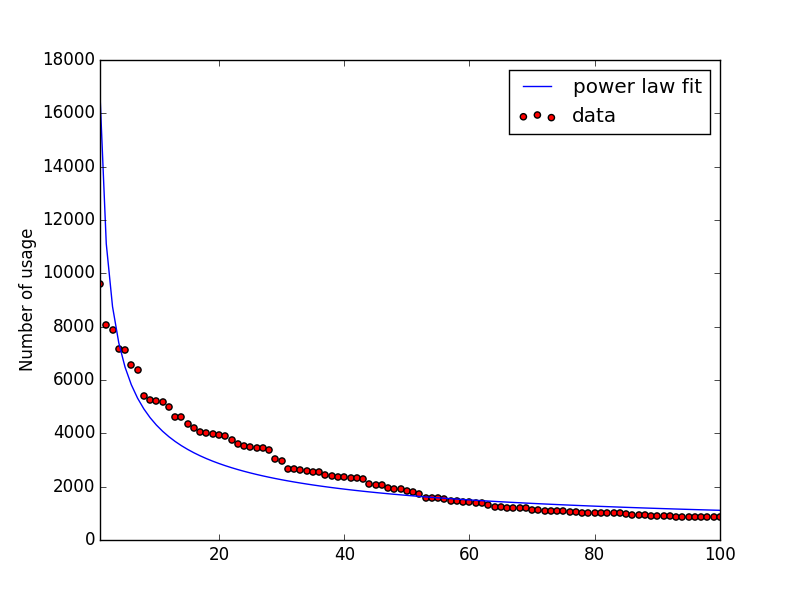
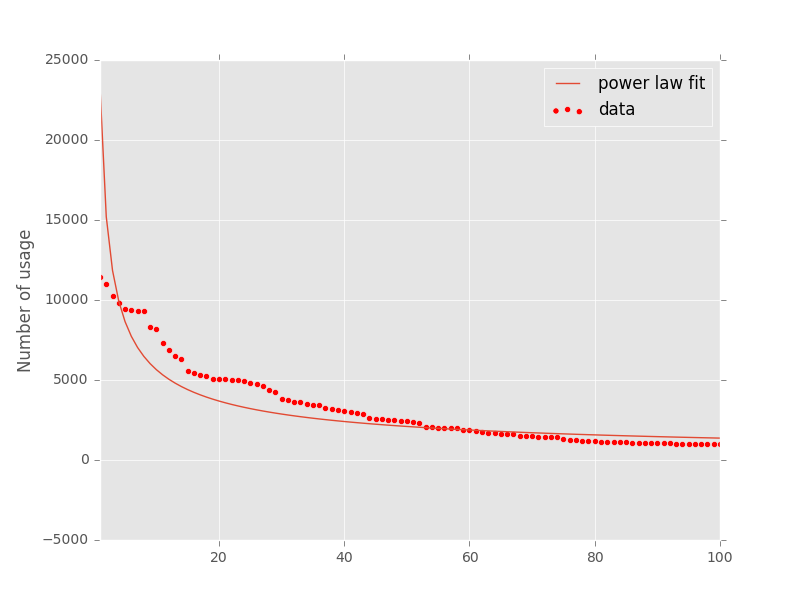
Dedup lots of lines Fix trailing whitespaces after comment removal

diff --git a/eigenvimrc.py b/eigenvimrc.py
@@ -1,8 +1,10 @@
+# -*- coding: utf-8 -*-
 import os
 import json
 import requests
 import collections
 import time
+import unicodedata
 
 import util
 
@@ -11,7 +13,6 @@ step2 = 0  # 2 for ghtorrent.csv, 1 for github.json
 
 # doesn't require internet connection
 step3 = step4 = step5 = 1
-step5 = 0
 
 api_url = "https://api.github.com/search/repositories"
 content_url = "https://raw.githubusercontent.com/"
@@ -59,6 +60,7 @@ if step2:
 if step3:
     vimrcs = []
     total_vimrc = 0
+    outstr = []
     excluded_keywords = ['endfunction', 'endfunc', 'call', 'if ', 'else',
                          'endif', 'return', 'augroup', 'Bundle', 'execute',
                          '\\ }', '\\', 'endfun', 'endf', 'try', 'endtry',
@@ -79,14 +81,11 @@ if step3:
                 sanitized_line = sanitized_line.replace(" = ", "=")
                 # format short-hand keyword
                 sanitized_line = util.keyword_reformat(sanitized_line)
-                if len(sanitized_line)>0 and sanitized_line[-1] == ' ':
-                    print "ugh"
-                    exit()
                 # strip comment
                 # detection is done by checking if the number of quotes
                 # are odd
                 if line.count('"') % 2 != 0:
-                    sanitized_line = sanitized_line[:sanitized_line.rfind('"')]
+                    sanitized_line = sanitized_line[:sanitized_line.rfind('"')].strip()
                 # only append when line is not empty
                 if len(sanitized_line) > 0:
                     sanitized_txt.append(sanitized_line)
@@ -95,10 +94,14 @@ if step3:
     # flatten the nested list
     vimrcs = [item for sublist in vimrcs for item in sublist]
 
-    print "Most common vim config out of " + str(total_vimrc) + " vimrc's\n"
+    outstr.append("Most common vim config out of " + str(total_vimrc) + " vimrc's\n")
     eigenvimrc = collections.Counter(vimrcs).most_common(100)
     for n, i in enumerate(eigenvimrc):
-        print "%d. ```%s``` %.2f%%" % (n, i[0], i[1]*100./total_vimrc)
+        outstr.append("%d. ```%s``` %.2f%%" % (n, i[0], i[1]*100./total_vimrc))
+    outfile = open("README.md", "w")
+    head = open("README.head.md", "r").read()
+    tail = open("README.tail.md", "r").read()
+    outfile.write(head + "\n".join(outstr) + tail)
 
 # step 4: generate eigenvimrc.vim
 if step4:
@@ -110,7 +113,7 @@ if step4:
         os.makedirs("plugin")
     with open('plugin/eigenvimrc.vim', 'wb') as f:
         for i in eigenvimrc:
-            if i[1]*100./total_vimrc >= 30:  # 30% most used
+            if i[1]*100./total_vimrc >= 40:  # 40% most used
                 f.write(i[0]+'\n')
 
 # step 5: generate plot for analysis
@@ -118,6 +121,8 @@ if step5:
     if not step3:
         print "this step depends on step #3, please enable step3"
         exit()
+    import matplotlib
+    matplotlib.use('Agg')
     import matplotlib.pyplot as plt
     plt.style.use('ggplot')
     import pylab

diff --git a/README.md b/README.md
@@ -25,111 +25,111 @@ def vote(default):
 3. ```git clone git://github.com/rht/eigenvimrc.git```
 
 #Result
-```syntax on``` > ```set nocompatible```
+```set nocompatible``` > ```syntax on```
+
 
 Most common vim config out of 13759 vimrc's
 
-0. ```syntax on``` 69.79%
-1. ```set number``` 58.58%
-2. ```set nocompatible``` 57.35%
-3. ```filetype plugin indent on``` 52.06%
-4. ```set expandtab``` 51.86%
-5. ```set laststatus=2``` 47.60%
-6. ```set hlsearch``` 46.29%
-7. ```set incsearch``` 39.17%
-8. ```set ignorecase``` 38.12%
-9. ```let mapleader=","``` 38.01%
-10. ```set background=dark``` 37.71%
-11. ```set backspace=indent,eol,start``` 36.34%
-12. ```set ruler``` 33.57%
-13. ```set autoindent``` 33.42%
-14. ```set tabstop=2``` 31.54%
-15. ```set wildmenu``` 30.63%
-16. ```set encoding=utf-8``` 29.40%
-17. ```set t_Co=256``` 29.22%
-18. ```set smartcase``` 28.96%
-19. ```set shiftwidth=4``` 28.55%
-20. ```set tabstop=4``` 28.22%
-21. ```set showcmd``` 27.28%
-22. ```set shiftwidth=2``` 26.22%
-23. ```set nobackup``` 25.63%
-24. ```set cursorline``` 25.47%
-25. ```filetype off``` 25.07%
-26. ```autocmd!``` 25.02%
-27. ```set mouse=a``` 24.40%
-28. ```set list``` 22.02%
-29. ```set showmatch``` 21.45%
-30. ```syntax enable``` 19.35%
-31. ```set noswapfile``` 19.33%
-32. ```filetype plugin on``` 19.07%
-33. ```set hidden``` 18.85%
-34. ```set smartindent``` 18.59%
-35. ```autocmd BufReadPost *``` 18.45%
-36. ```set smarttab``` 17.64%
-37. ```colorscheme solarized``` 17.53%
-38. ```filetype on``` 17.31%
-39. ```set softtabstop=4``` 17.09%
-40. ```set showmode``` 16.97%
-41. ```set title``` 16.77%
-42. ```set noerrorbells``` 16.75%
-43. ```set relativenumber``` 15.19%
-44. ```set nowrap``` 15.02%
-45. ```set ttyfast``` 14.88%
-46. ```set scrolloff=3``` 14.13%
-47. ```set clipboard=unnamed``` 13.98%
-48. ```filetype indent on``` 13.84%
-49. ```set rtp+=~/.vim/bundle/vundle/``` 13.45%
-50. ```set softtabstop=2``` 13.01%
-51. ```set nowritebackup``` 12.61%
-52. ```set gdefault``` 11.55%
-53. ```set undodir=~/.vim/undo``` 11.44%
-54. ```set autoread``` 11.36%
-55. ```set modeline``` 11.09%
-56. ```let save_cursor=getpos(".")``` 10.58%
-57. ```set backupdir=~/.vim/backups``` 10.57%
-58. ```set directory=~/.vim/swaps``` 10.33%
-59. ```let old_query=getreg('/')``` 10.32%
-60. ```set undofile``` 10.10%
-61. ```set nostartofline``` 10.04%
-62. ```set splitright``` 9.61%
-63. ```set splitbelow``` 9.07%
-64. ```set rtp+=~/.vim/bundle/Vundle.vim``` 9.06%
-65. ```set shortmess=atI``` 8.84%
-66. ```nnoremap k gk``` 8.77%
-67. ```nnoremap j gj``` 8.76%
-68. ```set wrap``` 8.72%
-69. ```set binary``` 8.07%
-70. ```set noeol``` 8.05%
-71. ```set encoding=utf-8 nobomb``` 7.94%
-72. ```set esckeys``` 7.89%
-73. ```set guioptions-=T``` 7.88%
-74. ```colorscheme molokai``` 7.78%
-75. ```let g:airline_powerline_fonts=1``` 7.55%
-76. ```Plugin 'gmarik/Vundle.vim'``` 7.54%
-77. ```set wildmode=list:longest,list:full``` 7.46%
-78. ```set numberwidth=5``` 7.46%
-79. ```function! StripWhitespace()``` 7.44%
-80. ```set visualbell``` 7.39%
-81. ```autocmd BufNewFile,BufRead *.json setfiletype json syntax=javascript``` 7.39%
-82. ```set fileencoding=utf-8``` 7.35%
-83. ```noremap <leader>W :w !sudo tee % > /dev/null<CR>``` 7.32%
-84. ```au BufReadPost * set relativenumber``` 7.04%
-85. ```set exrc``` 6.95%
-86. ```set secure``` 6.90%
-87. ```nnoremap Y y$``` 6.76%
-88. ```vnoremap < <gv``` 6.59%
-89. ```vnoremap > >gv``` 6.56%
-90. ```let g:Powerline_symbols='fancy'``` 6.52%
-91. ```set shiftround``` 6.45%
-92. ```set termencoding=utf-8``` 6.37%
-93. ```set history=1000``` 6.34%
-94. ```set incsearch		``` 6.32%
-95. ```set novisualbell``` 6.29%
-96. ```nnoremap ; :``` 6.29%
-97. ```set laststatus=2 ``` 6.26%
-98. ```set autoindent		``` 6.17%
-99. ```set lazyredraw``` 6.14%
-
+0. ```set nocompatible``` 83.33%
+1. ```syntax on``` 79.78%
+2. ```set number``` 74.55%
+3. ```set expandtab``` 71.10%
+4. ```set incsearch``` 68.44%
+5. ```set hlsearch``` 67.92%
+6. ```set laststatus=2``` 67.76%
+7. ```filetype plugin indent on``` 67.59%
+8. ```set ruler``` 60.38%
+9. ```set ignorecase``` 59.67%
+10. ```set autoindent``` 53.00%
+11. ```set showcmd``` 50.05%
+12. ```set backspace=indent,eol,start``` 47.30%
+13. ```set wildmenu``` 45.68%
+14. ```set background=dark``` 40.45%
+15. ```let mapleader=","``` 39.67%
+16. ```set smartcase``` 38.73%
+17. ```filetype off``` 37.95%
+18. ```set tabstop=2``` 36.87%
+19. ```set shiftwidth=4``` 36.79%
+20. ```set showmatch``` 36.66%
+21. ```set tabstop=4``` 36.55%
+22. ```set cursorline``` 36.49%
+23. ```set t_Co=256``` 35.90%
+24. ```set nobackup``` 34.89%
+25. ```set shiftwidth=2``` 34.49%
+26. ```set encoding=utf-8``` 33.50%
+27. ```set mouse=a``` 32.01%
+28. ```set hidden``` 30.77%
+29. ```set showmode``` 27.84%
+30. ```set smarttab``` 27.20%
+31. ```set noswapfile``` 26.27%
+32. ```set nowrap``` 26.16%
+33. ```set title``` 25.41%
+34. ```autocmd!``` 25.02%
+35. ```set list``` 25.00%
+36. ```set noerrorbells``` 23.56%
+37. ```filetype plugin on``` 23.10%
+38. ```syntax enable``` 22.85%
+39. ```set smartindent``` 22.26%
+40. ```set softtabstop=4``` 21.98%
+41. ```set scrolloff=3``` 21.14%
+42. ```filetype on``` 21.08%
+43. ```set relativenumber``` 19.26%
+44. ```autocmd BufReadPost *``` 18.46%
+45. ```set autoread``` 18.45%
+46. ```set softtabstop=2``` 18.16%
+47. ```colorscheme solarized``` 18.00%
+48. ```set ttyfast``` 17.73%
+49. ```set clipboard=unnamed``` 17.62%
+50. ```filetype indent on``` 17.41%
+51. ```set gdefault``` 16.73%
+52. ```set undofile``` 14.96%
+53. ```set visualbell``` 14.88%
+54. ```set nostartofline``` 14.38%
+55. ```set nowritebackup``` 14.37%
+56. ```set splitright``` 14.36%
+57. ```set history=1000``` 14.35%
+58. ```set splitbelow``` 13.79%
+59. ```set rtp+=~/.vim/bundle/vundle/``` 13.55%
+60. ```set wrap``` 13.18%
+61. ```set history=50``` 12.84%
+62. ```set modeline``` 12.42%
+63. ```set shortmess=atI``` 12.38%
+64. ```set guioptions-=T``` 11.91%
+65. ```set shiftround``` 11.75%
+66. ```set undodir=~/.vim/undo``` 11.74%
+67. ```set backupdir=~/.vim/backups``` 10.76%
+68. ```set wildmode=list:longest``` 10.75%
+69. ```set esckeys``` 10.75%
+70. ```set encoding=utf-8 nobomb``` 10.67%
+71. ```let save_cursor=getpos(".")``` 10.59%
+72. ```set directory=~/.vim/swaps``` 10.36%
+73. ```let old_query=getreg('/')``` 10.32%
+74. ```set backspace=2``` 9.46%
+75. ```set lazyredraw``` 9.14%
+76. ```set rtp+=~/.vim/bundle/Vundle.vim``` 9.13%
+77. ```nnoremap k gk``` 8.77%
+78. ```nnoremap j gj``` 8.76%
+79. ```set backup``` 8.71%
+80. ```colorscheme molokai``` 8.23%
+81. ```set binary``` 8.10%
+82. ```set noeol``` 8.06%
+83. ```set linebreak``` 7.99%
+84. ```set nofoldenable``` 7.98%
+85. ```set numberwidth=5``` 7.92%
+86. ```Plugin 'gmarik/Vundle.vim'``` 7.87%
+87. ```set novisualbell``` 7.78%
+88. ```let g:airline_powerline_fonts=1``` 7.76%
+89. ```set fileencoding=utf-8``` 7.74%
+90. ```set wildmode=list:longest,list:full``` 7.66%
+91. ```set exrc``` 7.58%
+92. ```function! StripWhitespace()``` 7.44%
+93. ```set secure``` 7.44%
+94. ```autocmd BufNewFile,BufRead *.json setfiletype json syntax=javascript``` 7.40%
+95. ```noremap <leader>W :w !sudo tee % > /dev/null<CR>``` 7.33%
+96. ```vnoremap < <gv``` 7.21%
+97. ```set foldenable``` 7.19%
+98. ```vnoremap > >gv``` 7.17%
+99. ```set foldmethod=indent``` 7.07%
 
 #Plot
 Strangely it doesn't follow the power law distribution. Likely because some settings are highly correlated with the others.
